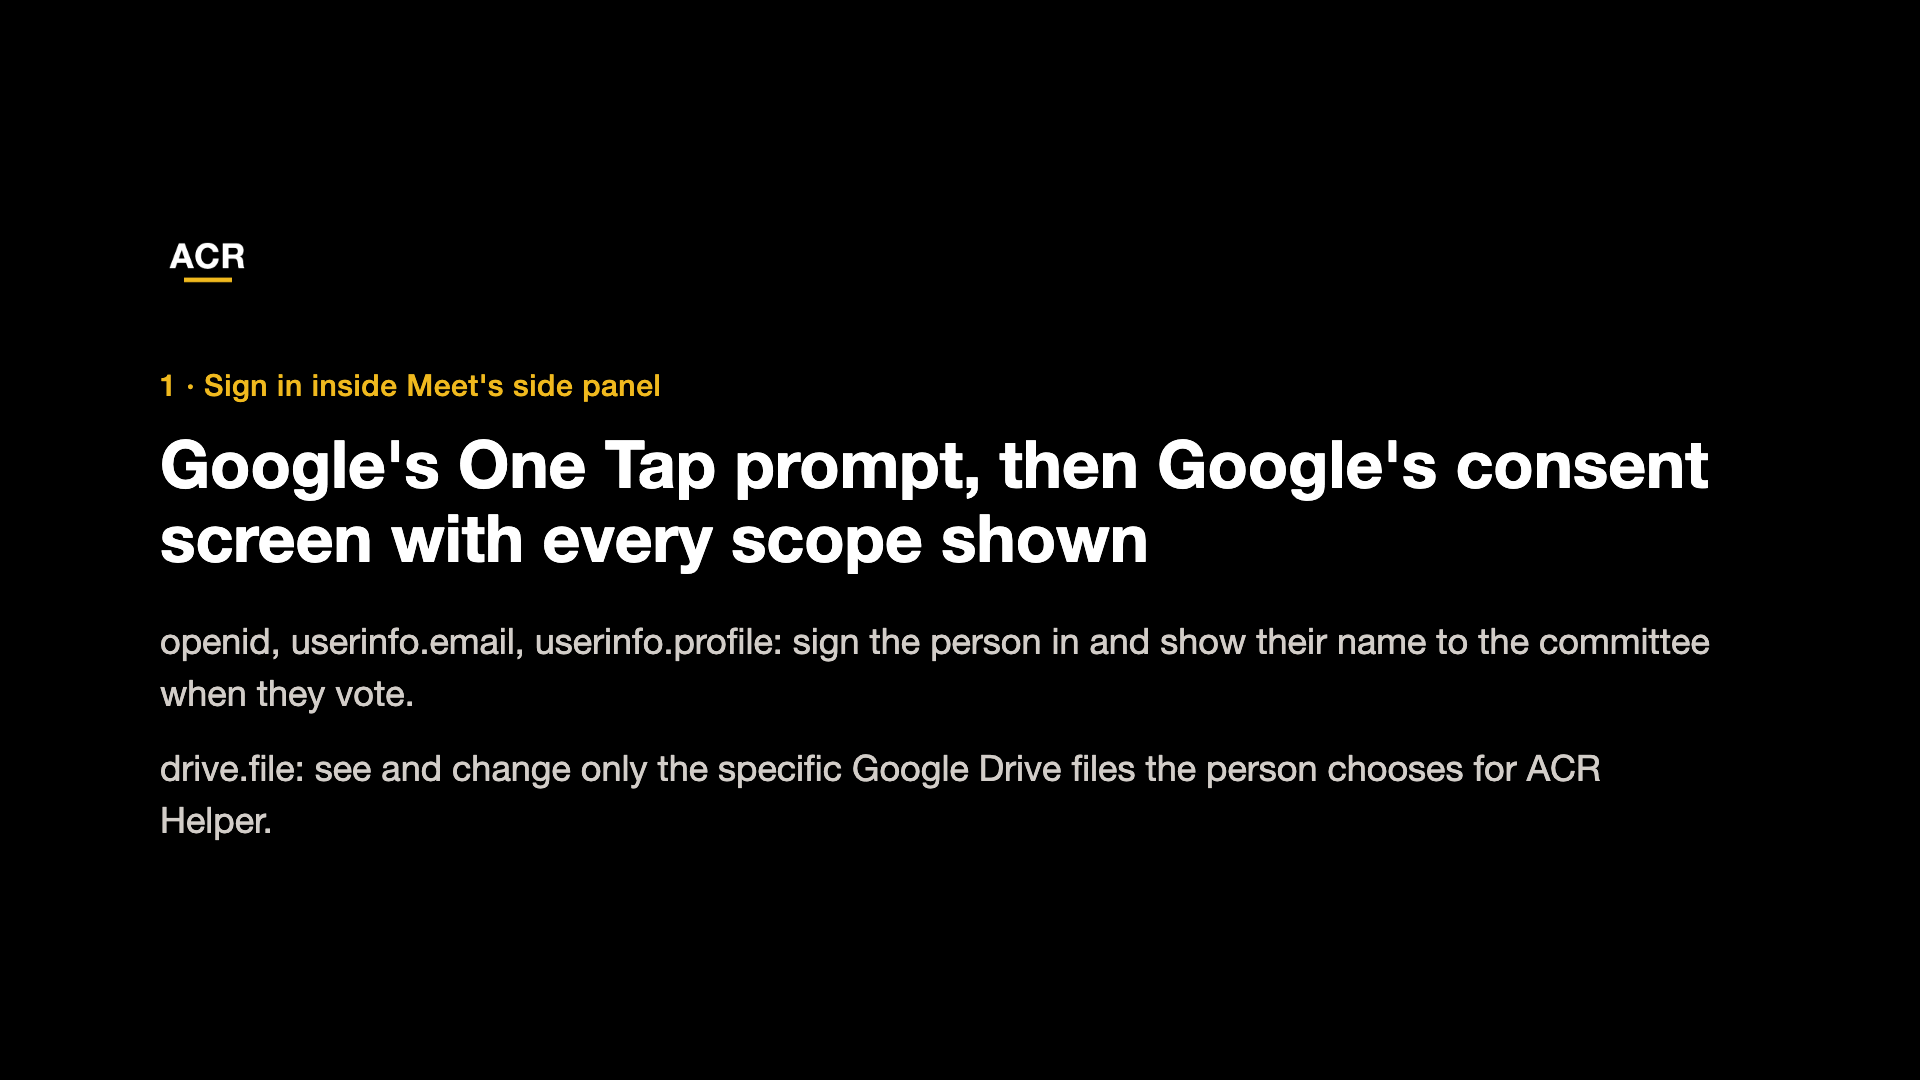
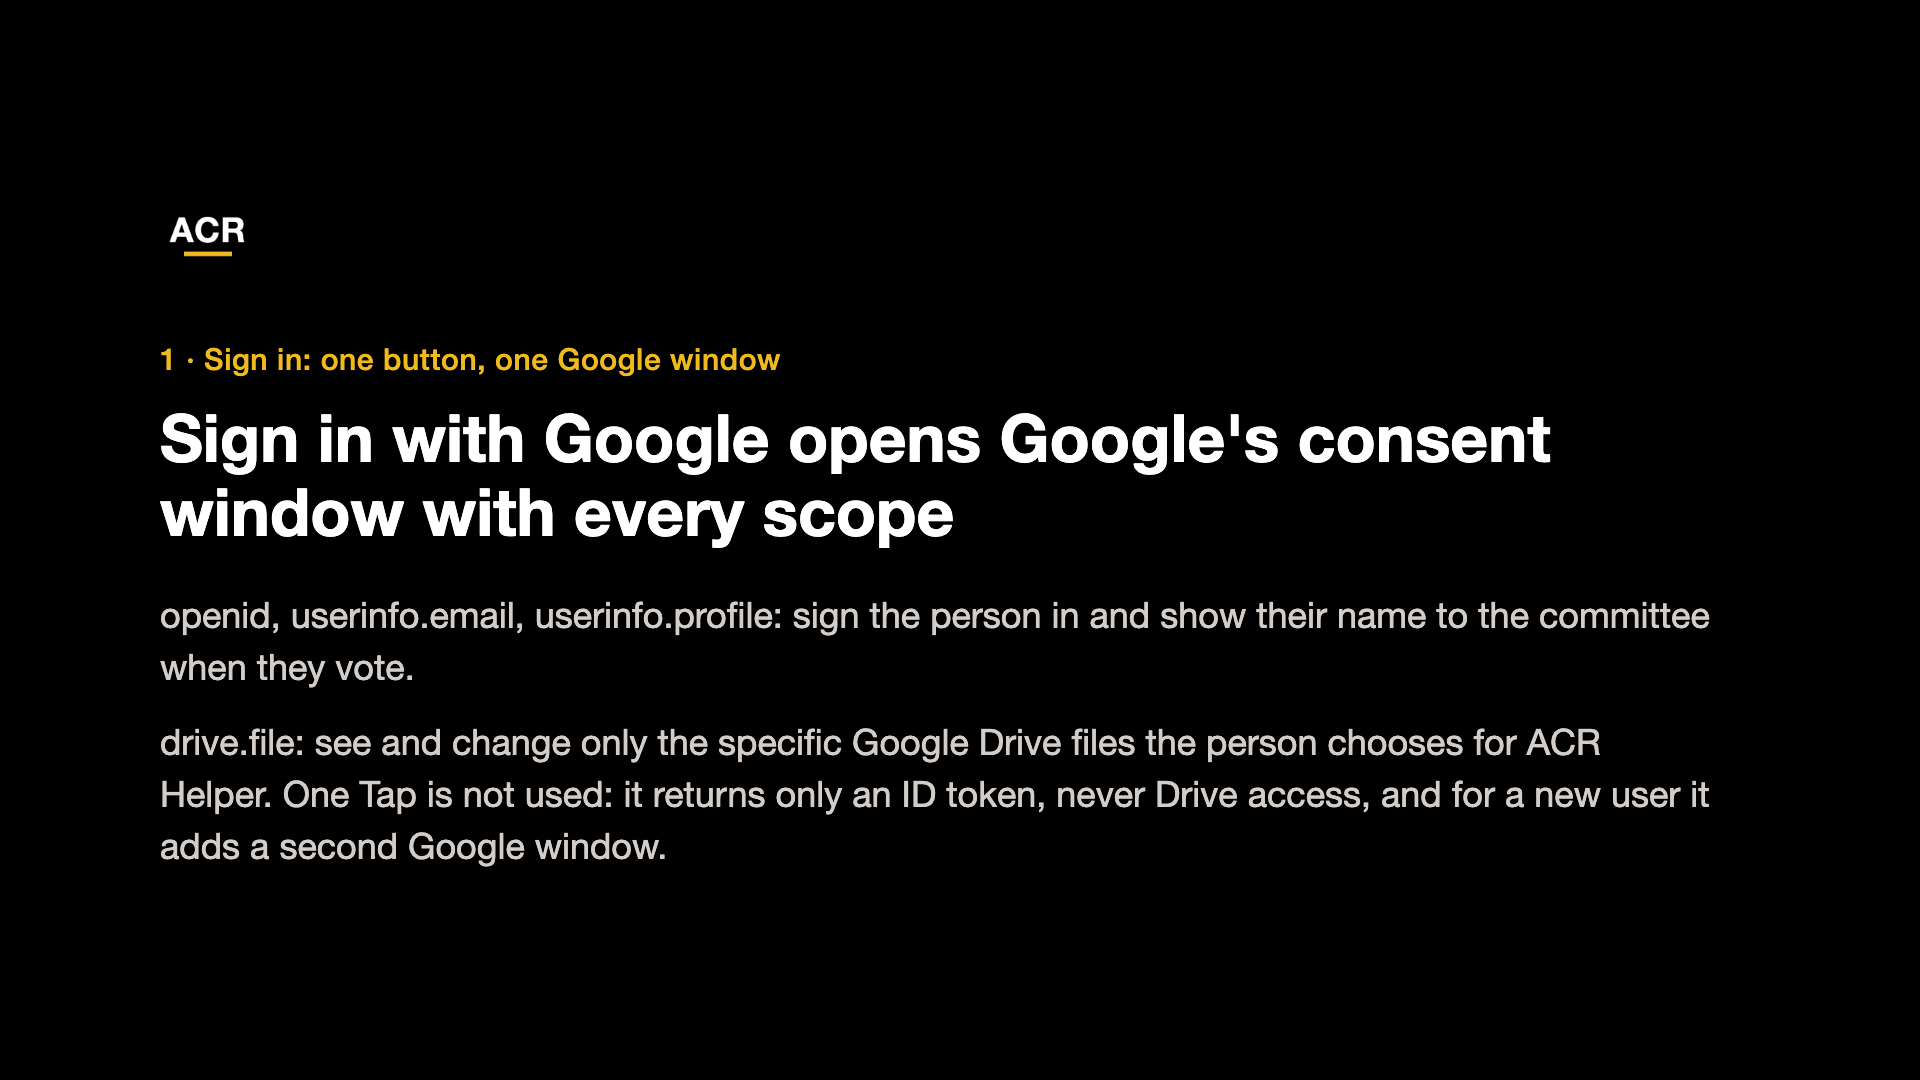
Video for v0.8.1 (one button, one Google window, Picker in the side panel); notes
Claude-Session: https://claude.ai/code/session_01FPuSAneoj3ueBaPhZKA7ma

Changed region(s): [[0.0625, 0.3056, 0.9062, 0.7944], [0.0625, 0.1833, 0.125, 0.275]]

diff --git a/tools/meet-addon/screencast/card03.html b/tools/meet-addon/screencast/card03.html
@@ -6,4 +6,4 @@ img{width:96px;height:96px;border-radius:20px;margin-bottom:56px}
 h1{font-size:66px;font-weight:700;line-height:1.12;margin:0 0 40px;max-width:1560px}
 p,li{font-size:36px;line-height:1.45;color:#d2cdc8;max-width:1560px;margin:0 0 22px}
 ul{margin:0;padding-left:1.1em}
-</style><main><img src="mark.png" alt=""><p class="k">2 · drive.file (the person chooses the file)</p><h1>Google&#x27;s file picker, pre-pointed at the committee&#x27;s spreadsheet</h1><p>The first time only, the person selects the committee&#x27;s spreadsheet in the Google Picker (setFileIds). ACR Helper can then open that one file and nothing else in their Drive.</p><p>The picker lists the spreadsheet only if it is shared with the person, so the spreadsheet&#x27;s own sharing decides who can use the add-on.</p><ul></ul></main>
+</style><main><img src="mark.png" alt=""><p class="k">2 · drive.file (the person chooses the file)</p><h1>Google&#x27;s file picker opens by itself in the side panel</h1><p>The first time only, the person selects the committee&#x27;s spreadsheet in the Google Picker (setFileIds). ACR Helper can then open that one file and nothing else in their Drive.</p><p>The picker lists the spreadsheet only if it is shared with the person, so the spreadsheet&#x27;s own sharing decides who can use the add-on.</p><ul></ul></main>

diff --git a/tools/meet-addon/screencast/card02.html b/tools/meet-addon/screencast/card02.html
@@ -6,4 +6,4 @@ img{width:96px;height:96px;border-radius:20px;margin-bottom:56px}
 h1{font-size:66px;font-weight:700;line-height:1.12;margin:0 0 40px;max-width:1560px}
 p,li{font-size:36px;line-height:1.45;color:#d2cdc8;max-width:1560px;margin:0 0 22px}
 ul{margin:0;padding-left:1.1em}
-</style><main><img src="mark.png" alt=""><p class="k">1 · Sign in inside Meet&#x27;s side panel</p><h1>Google&#x27;s One Tap prompt, then Google&#x27;s consent screen with every scope shown</h1><p>openid, userinfo.email, userinfo.profile: sign the person in and show their name to the committee when they vote.</p><p>drive.file: see and change only the specific Google Drive files the person chooses for ACR Helper.</p><ul></ul></main>
+</style><main><img src="mark.png" alt=""><p class="k">1 · Sign in: one button, one Google window</p><h1>Sign in with Google opens Google&#x27;s consent window with every scope</h1><p>openid, userinfo.email, userinfo.profile: sign the person in and show their name to the committee when they vote.</p><p>drive.file: see and change only the specific Google Drive files the person chooses for ACR Helper. One Tap is not used: it returns only an ID token, never Drive access, and for a new user it adds a second Google window.</p><ul></ul></main>

diff --git a/tools/meet-addon/SCREENCAST.md b/tools/meet-addon/SCREENCAST.md
@@ -1,7 +1,8 @@
 # Review video (drive.file), 2026-11-23
 
-**Uploaded:** youtu.be/hFSTPAD5ikQ, Unlisted, "ACR Helper: Google Meet add-on,
-OAuth review (drive.file)", on Ben's channel (benwilkoff@gmail.com), 3:24.
+**Uploaded:** youtu.be/ruo5K9UMRr8 (v0.8.1: one button, one Google window,
+Picker in the side panel), Unlisted, 3:16, on Ben's channel
+(benwilkoff@gmail.com). Superseded: youtu.be/hFSTPAD5ikQ (v0.6.2, pick window).
 Built with `screencast/build.sh <clips> <work>` from eight window clips
 (s1-signin, s1b-confirm, s2-openreview, s3-consent, s4-choose, s5-pick,
 s6-review, s7-sheet) and cards 01-08 (`cards.json`, `make.py`). Call
@@ -12,7 +13,8 @@ How to reset so the consent screen and the picker appear on camera:
   from Drive. This one step removes the sheet choice **and** the approval.
   Do it while ACR Helper still has access: after myaccount "Delete all" the
   app leaves Drive's list but the sheet choice survives (measured Nov 23).
-- Start recording a pop-up window ~2.5 s after it appears; starting at once
+- Start recording a pop-up window ~2.5 s after it appears, and wait ~3 s after
+  stopping one recording before starting the next; overlapping streams
   crashed the recorder ("connection being interrupted").
 - Compile the recorder with `swiftc -O -parse-as-library`.
 - Picker rows cannot be selected through Accessibility; a person clicks.

diff --git a/SCRATCHPAD.md b/SCRATCHPAD.md
@@ -12,8 +12,10 @@
   one-time Picker window (decision 014); console Data Access changed and
   the Verification Center now says verification is not required. Privacy
   policy has "How sensitive data is protected". **Waiting on Ben**: send
-  the Gmail draft (ben.wilkoff@minerva.edu, Google's thread; includes the
-  new video youtu.be/hFSTPAD5ikQ and reviewer steps). Listing scopes fixed
+  the Gmail draft (ben.wilkoff@minerva.edu, Google's thread; new video
+  youtu.be/ruo5K9UMRr8, reviewer steps, why no One Tap). v0.8.1 verified in
+  Meet (call kdv-pszn-pce): one button, one Google window, Picker opened by
+  itself in the side panel, lobby; returning users no window. Listing scopes fixed
   and resubmitted Nov 23. ACR Helper grants removed from both Ben accounts
   for the video: each sees consent (and gmail the picker) next time.
 - **Run locally**: `python3 -m http.server 8080`, open
